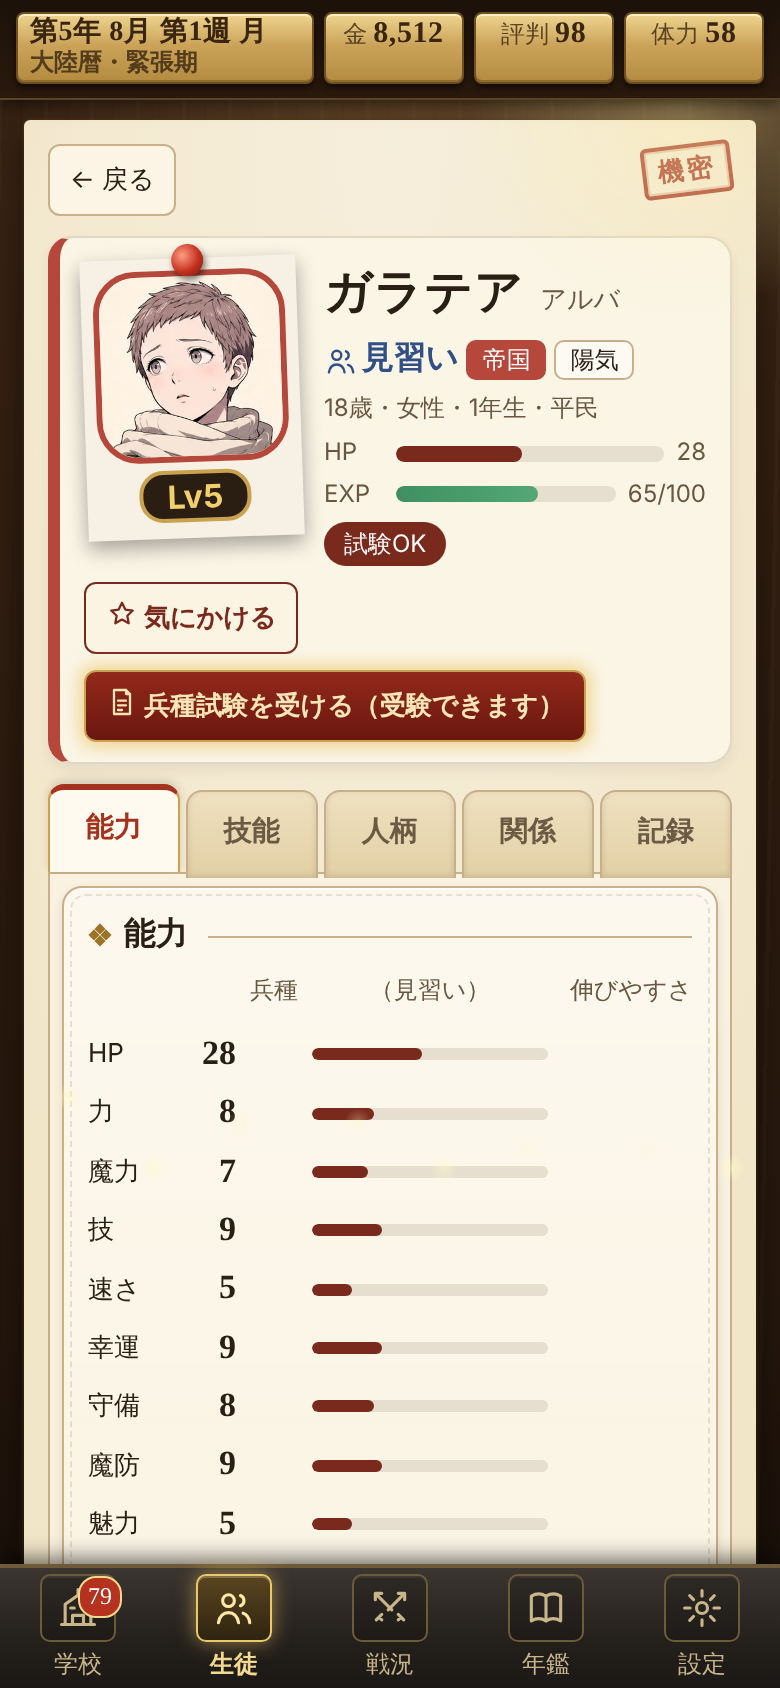
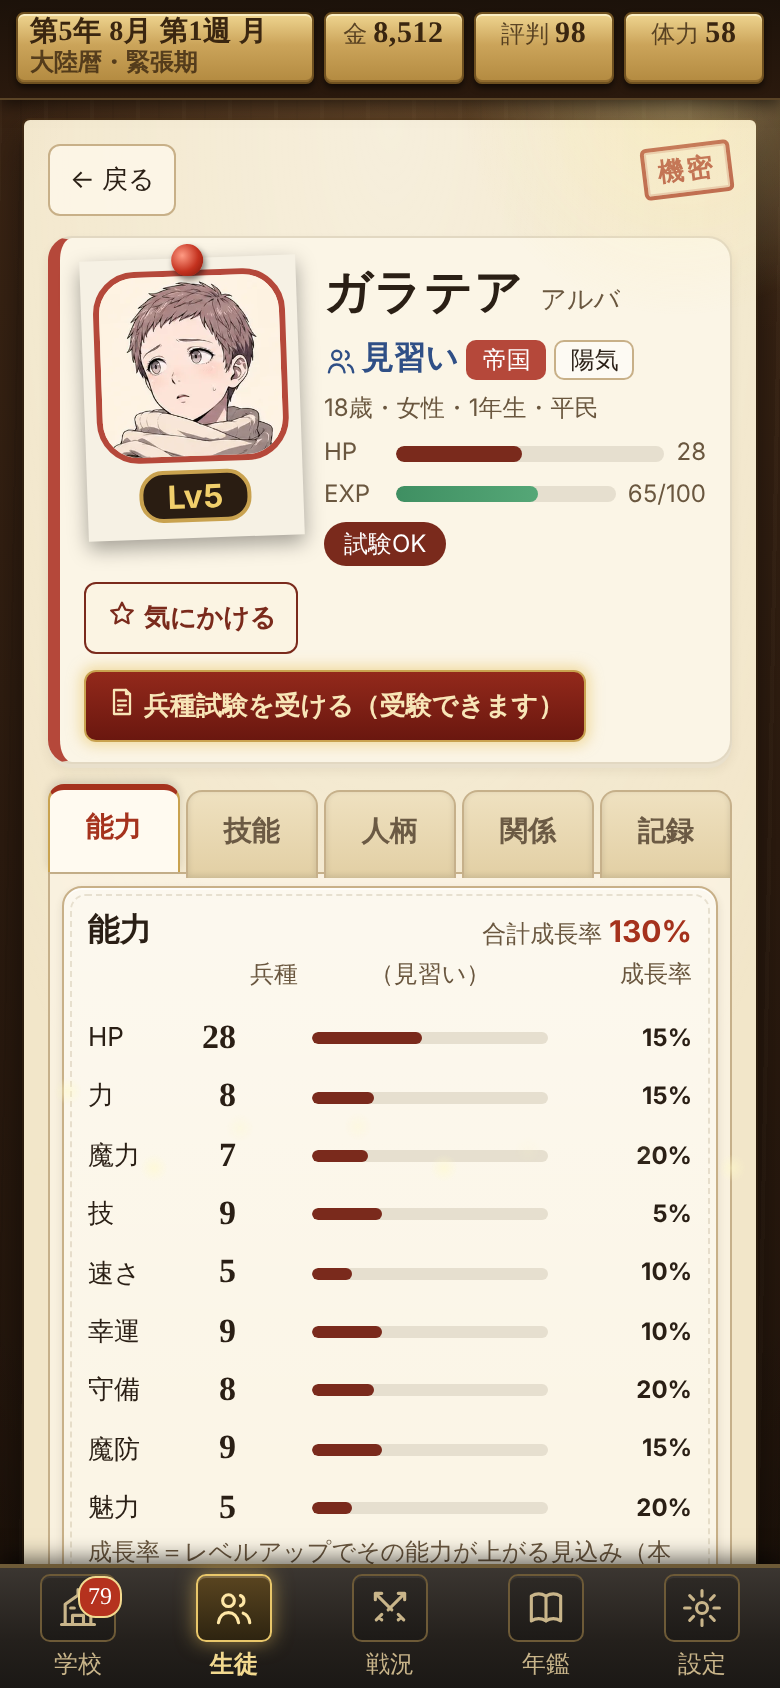
追加の依頼4つ（授業の画面・名簿の★・個人ページのタブ・成長率）を最新の版で撮り直して確認、報告書に追記
Claude-Session: https://claude.ai/code/session_01BQhBD6zKyAZZ246o7C4kHZ

diff --git a/docs/reports/night9.md b/docs/reports/night9.md
@@ -29,6 +29,15 @@
 - 評価（称号29種・全性格のひとこと・出撃した子だけ・称号1〜2個・差し込み忘れなし）
 - 組織図（線・変化の印）、見込みのある兵（因縁・抜擢・二つ名・線）
 
+### 追加の依頼4つの確認（作業の最後に、最新の版でもう一度撮影）
+
+| 依頼 | 確認したこと |
+|---|---|
+| 授業の画面を開いたら、すぐに授業を選べるように | **幅390×高さ844で、授業の札6枚（5種＋休講）がスライドなしで全部見え、その下に「今週はおまかせ」がある**ことを撮影で確かめました（`docs/screenshots/night9/30-today-lessons.png`）。カレンダーは「戻る」と同じ1行、説明は「？」、体力は細いゲージ、目標技能は小さな札 |
+| 名簿の「★気にかける」の文字が欠ける | 幅360pxで、学年の切り替え5つが1行に収まり「★気にかける」が切れないこと、横スクロールの棒（中身のない横長の枠）が消えたことを撮影で確かめました（`31-roster.png`）。撮影の検査で、ほかの画面にも横のはみ出しはありませんでした |
+| 個人ページをタブで分ける | 幅360pxで5つのタブが1行に収まり（高さ44px）、上の写真・名前・HPと経験値のゲージ・ボタンはいつも見えることを確かめました（`32-detail.png`） |
+| 成長率を上のほうで見えるように | 「能力」タブの能力の行に合計の成長率、右上に合計成長率、内わけはたたんで「成長率の内わけを見る」で開くことを確かめました（`32-detail.png`） |
+
 ## シミュレーション
 
 **長さの選び方**：CLAUDE.md の使い分けと指示書どおり、戦闘の数字と流れが変わったので**長いシミュレーション（40年×10回×方針4つ＝おまかせ・和平狙い・統一狙い・中立狙い）**を回し、同じ条件で**8夜目の版のコードでも回して比べました**（`docs/sim-report.md` は9夜目の版の結果）。途中で届いた感想メモ（見た目だけ）は、この長いシミュレーションの中でエラーがないことを確かめています。
